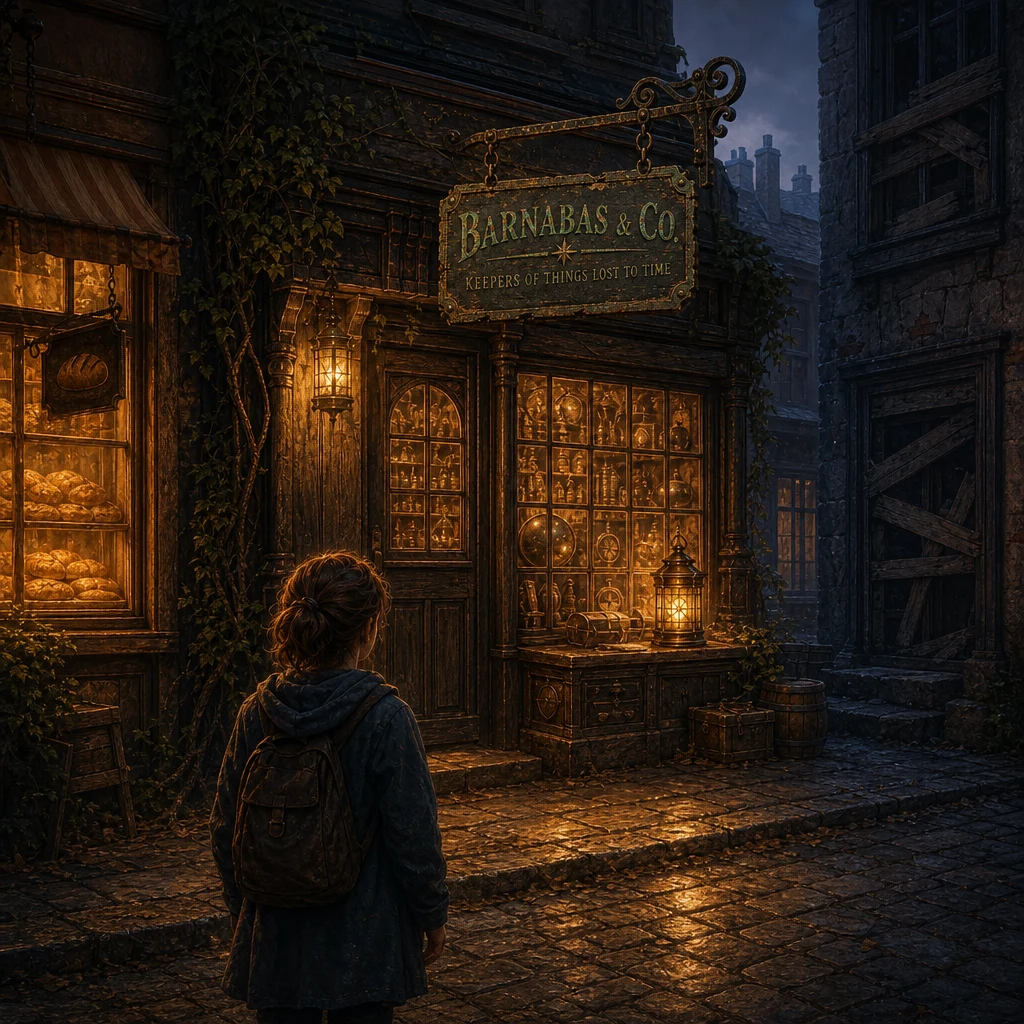
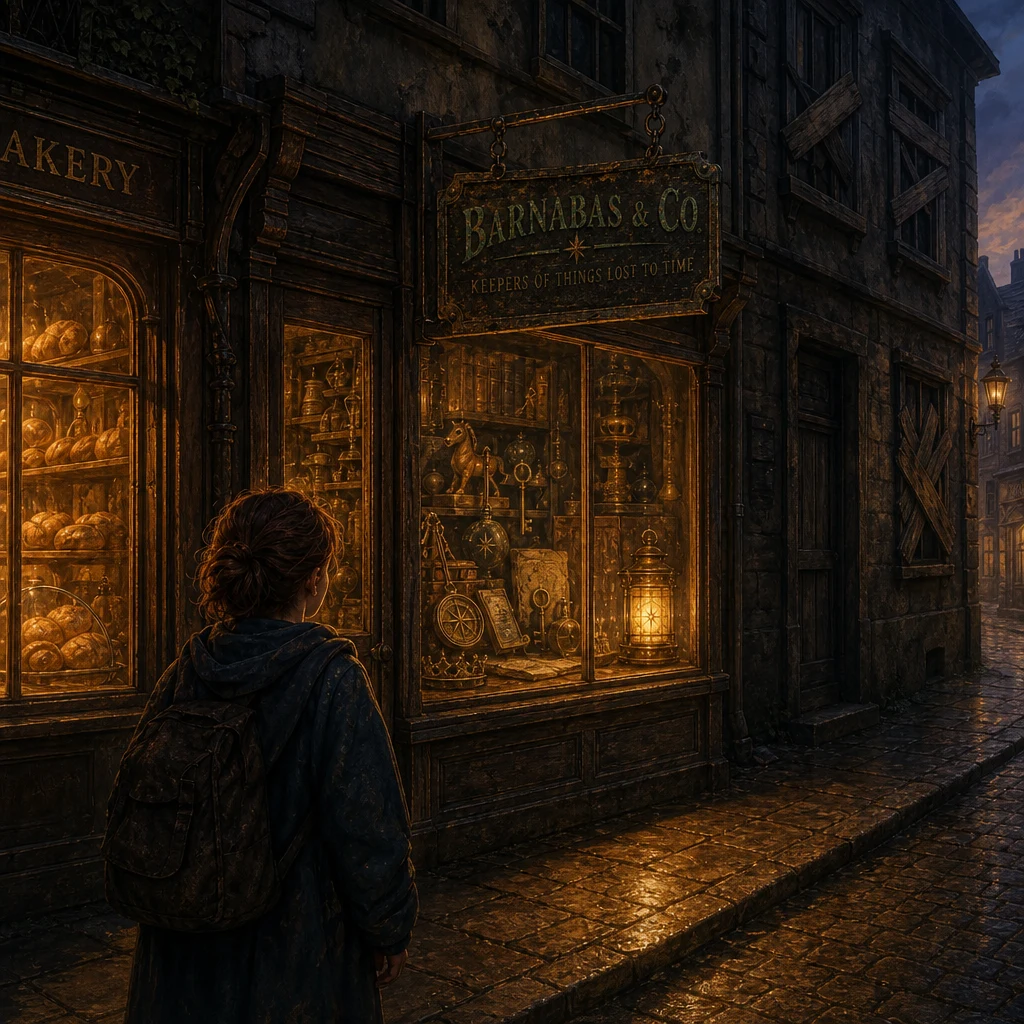
The world sheet loses its stone, mounts its sign, and hides the Bible in the shop
A prologue picture drawn with the sheet put a smooth stone on Barnabas's
counter: the sixth panel was still the stone the lantern used to close into.
Three panels redrawn, each vetted and chosen by Blake, composited into the
existing sheet so the sign and both lanterns are untouched:
 - the shop front, its sign on a bracket bolted to the wall over the pavement;
 - the inside, with books, and a sling, a shepherd's crook, a cross on a cord,
   folded grave cloths, a ram's horn and more tucked where a close look finds them;
 - the back wall in place of the stone, with more of them and a faint lion's
   shadow across the door. Blake chose it knowing the sheet goes with every
   quest picture of the shop ("leaks OK"); WORLD_SHEET_PANELS never says
   "lion", and a test holds that, and that no stone is named.

The hidden objects are on the story shelf too (SHOP.hidden), bare nouns with
no owners, graded like the rest; the world cap moves 1000 -> 1010 for them.
The prologue's shop picture is redrawn from the new sheet.

Claude-Session: https://claude.ai/code/session_01HNmPnAYDma1K8cW7FHa2WE

diff --git a/server/data/referencePlates.ts b/server/data/referencePlates.ts
@@ -3,7 +3,7 @@
  *
  * A character is consistent because a file of their face is attached to every
  * picture they are in. Everything else in this world -- the shop, its sign, the
- * lantern lit and the lantern dark, the stone it closes into -- was anchored to
+ * lantern lit and the lantern dark, the back of the shop -- was anchored to
  * one sentence: "Render in a beautiful biblical storybook illustration style
  * with soft colors." A sentence cannot pin a building.
  *
@@ -117,14 +117,33 @@ export type ReferencePlate = {
  * be found, and it belongs to Movement III (docs/quests-of-the-timekeeper.md).
  * Putting it on a sheet every quest sees would spend the reveal before it is
  * written.
+ *
+ * NO STONE, since 2026-09-14. The sixth panel was the small smooth stone the
+ * lantern used to close into, kept after the stone left the canon because the
+ * art had it -- and a prologue picture drawn with this sheet put a smooth stone
+ * on Barnabas's counter. So it is redrawn. Blake had three panels redone at the
+ * same time, each checked by eye and chosen by him:
+ *  - the shop front, whose sign floated beside the wall: its bracket is bolted
+ *    to the wall now and reaches out over the pavement;
+ *  - the inside, with books, and things from Bible times and church history
+ *    hidden where only a close look finds them;
+ *  - the back wall, which replaces the stone: more of those things, and a faint
+ *    shadow of a great lion across it, large enough to cover the door, with
+ *    nothing in the room to cast it. BLAKE CHOSE THIS KNOWING THE SHEET GOES
+ *    WITH EVERY QUEST PICTURE OF THE SHOP, and that the shadow may sometimes
+ *    turn up in one: "leaks OK". It is described below only as "a large soft
+ *    shadow", so the prompt never asks for a lion -- CANON.lion still forbids
+ *    the Lion appearing in any story.
+ * The hidden objects are not listed here either: named in the prompt, they
+ * would stop being hidden in every picture the sheet goes to.
  */
 export const WORLD_SHEET_PANELS = [
-  "the shop from the street, with its sign hanging over the door",
+  "the shop from the street, its sign hanging from an iron bracket fixed to the wall and reaching out over the pavement",
   "the sign on its own, the paint cracked and the brass letters gone green at the edges",
-  "the inside of the shop: crowded shelves, a counter, none of it labelled",
+  "the inside of the shop: crowded shelves of old books and old things, a counter, none of it labelled",
   "the lantern, lit",
   "the lantern, dark",
-  "the small smooth stone the lantern closes into",
+  "the back wall of the shop around a plain closed door, crowded with old things, a large soft shadow across it",
 ] as const;
 
 export const WORLD_SHEET_FILE = "timekeeper-world.webp";

diff --git a/server/data/lionTails.ts b/server/data/lionTails.ts
@@ -59,6 +59,26 @@ export const SHOP = {
     "a tiny crown",
     "a broken watch",
   ],
+  /**
+   * Things from Bible times and church history, tucked where only a close look
+   * finds them. Blake had them drawn into the shop (the world sheet), then:
+   * "whatever we did to get those objects in the store we need to add that to
+   * the prompting to get that in a story." Same grading as the shelf -- one may
+   * be noticed, none has to be -- and deliberately WITHOUT owners: the shelf
+   * says whose coat the button was from; these say nothing, so a reader who
+   * spots the sling or the grave cloths is the one who works it out.
+   */
+  hidden: [
+    "sling",
+    "shepherd's crook",
+    "Roman sandal",
+    "cross on a cord",
+    "folded grave cloths",
+    "ram's horn",
+    "scroll",
+    "oil lamp",
+    "carpenter's plane",
+  ],
   /** Never uncovered, never described. The one thing the model may not use. */
   underTheCloth: "one small thing under a cloth",
 } as const;
@@ -533,7 +553,8 @@ export function worldCanon(frame: FramingApproach): string[] {
     CANON.wayBack,
     CANON.ending,
     `On the shelves: ${SHOP.shelf.join("; ")}; and ` +
-      `${SHOP.underTheCloth}. One may be noticed in passing; none has to be. ` +
+      `${SHOP.underTheCloth}. Half-hidden: ${SHOP.hidden.join(", ")}. ` +
+      "One may be noticed in passing; none has to be. " +
       "Never the thing under the cloth.",
     KEEPER.never,
     CANON.lion,

diff --git a/tests/storyBrief.test.ts b/tests/storyBrief.test.ts
@@ -1665,7 +1665,12 @@ describe("the world of a quest", () => {
     const b = quest();
     expect(b.world).toBeDefined();
     /**
-     * 1000, from 925, from 750.
+     * 1010, from 1000, from 925, from 750.
+     *
+     * The last ten words were Blake's: the things hidden in the shop's art
+     * (a sling, a shepherd's crook, grave cloths...) had to be things a story
+     * can notice too. Bare nouns, no owners, and graded like the rest of the
+     * shelf -- about twenty words, of which ten came out of the wording.
      *
      * THE CAP IS A RATCHET, NOT A BUDGET. Its job is to make somebody stop and
      * justify the lore the next time it grows, which is exactly what happened
@@ -1682,7 +1687,7 @@ describe("the world of a quest", () => {
      * That ratio is the thing to watch, not this number. Raise it again when
      * there is a reason; look at the ratio first.
      */
-    expect(words(b.world!.canon.join(" "))).toBeLessThanOrEqual(1000);
+    expect(words(b.world!.canon.join(" "))).toBeLessThanOrEqual(1010);
     // 450, from 350, for the same field and the same reason.
     expect(words(Object.values(CANON).join(" "))).toBeLessThanOrEqual(450);
     // UNCHANGED, and the tightest budget in the system: this one repeats on

diff --git a/tests/illustration.test.ts b/tests/illustration.test.ts
@@ -426,7 +426,16 @@ describe("the Timekeeper world sheet", () => {
     const panels = WORLD_SHEET_PANELS.join(" | ");
     expect(panels).toMatch(/the lantern, lit/);
     expect(panels).toMatch(/the lantern, dark/);
-    expect(panels).toMatch(/stone/);
+  });
+
+  it("has no stone on it, and never asks for the lion", () => {
+    // The stone left the canon, and a prologue picture drawn with the old
+    // sheet put one on Barnabas's counter. The lion's shadow on the back wall
+    // is in the ART by Blake's choice; the words never name it, because a
+    // prompt that says "lion" draws one.
+    const panels = WORLD_SHEET_PANELS.join(" | ");
+    expect(panels).not.toMatch(/stone|pebble/i);
+    expect(panels).not.toMatch(/lion/i);
   });
 
   it("keeps the white flame off it", () => {

diff --git a/server/data/questPrologue.ts b/server/data/questPrologue.ts
@@ -309,7 +309,7 @@ export const QUEST_PROLOGUE: SavedStory & { builtIn: true } = {
     inText(
       "prologue-shop",
       "quest-prologue-shop.webp",
-      "A quiet evening street: between a lit bakery and a boarded-up building, a small old shop with the sign Barnabas & Co., and a child looking up at it",
+      "A quiet evening street seen from along the pavement: a lit bakery, a small old shop with the sign Barnabas & Co. and a window of strange old things, boarded-up windows beyond, and a child looking up at it",
       "You stared at it.",
     ),
     inText(

diff --git a/docs/quests-of-the-timekeeper.md b/docs/quests-of-the-timekeeper.md
@@ -174,6 +174,21 @@ carries anything, and the way opens again on its own when it is time. A reader
 who asks *why it chose that moment* is still asking the question this file
 answers and the stories do not.
 
+**Hidden in the shop's art, and on its shelf.** The world sheet
+(`public/images/timekeeper-world.webp`) was redrawn in September 2026 with
+things from Bible times and church history tucked where only a close look
+finds them -- a sling, a shepherd's crook, a Roman soldier's sandal, a small
+cross on a cord, folded grave cloths, a ram's horn, a scroll, an oil lamp, a
+carpenter's plane -- and, on the back wall, a faint shadow of a great lion
+across the door with nothing in the room to cast it. None of it is named in
+`WORLD_SHEET_PANELS`, the picture prompt: named there, they would stop being
+hidden in every quest picture, and a prompt that says "lion" draws one. The
+objects ARE on the story shelf (`SHOP.hidden`), as bare nouns with no owners,
+at Blake's request -- a story may notice one, as it may the compass. The
+lion's shadow is in no story prompt. Blake knows the sheet goes with every
+quest picture of the shop and that the shadow may surface in one; that is his
+call ("leaks OK"). The Lion still never appears in a story.
+
 **A pet goes through too.** Blake's call: a character's pet, ticked "in
 stories", arrives beside its owner on the far side and stays close, and the
 account goes on exactly as it was. It is said only in a brief that has a pet

diff --git a/CLAUDE.md b/CLAUDE.md
@@ -1134,6 +1134,16 @@ the reader renders it as a poem, and a test holds the shape. It carries the home
 is `QUEST_SERIES_TITLE` in `shared/quests.ts`, because the card and the
 prologue heading both print it.
 
+**The world sheet has no stone, and a lion's shadow the prompt never names.**
+Redrawn panels (shop sign mounted on the wall, books and hidden biblical
+objects inside, the back wall with a faint lion's shadow in place of the old
+stone panel), each chosen by Blake. `WORLD_SHEET_PANELS` describes the shadow
+only as "a large soft shadow" and names none of the hidden objects; a test
+holds that neither "stone" nor "lion" is in it. The same objects are on the story's shelf as bare nouns (`SHOP.hidden`,
+"Half-hidden: …"), graded like the rest of it, so a story may notice one;
+the world cap went 1000 → 1010 for them. The lion's shadow is not in any story
+prompt. See the doc's "Hidden in the shop's art".
+
 **The Lion is a name, not a character, in the model canon.** `CANON.lion` lets
 Barnabas say "I have no control over this" and, pressed, "The great Lion knows
 no bounds" — once, mysteriously — and forbids the Lion appearing at all. He
